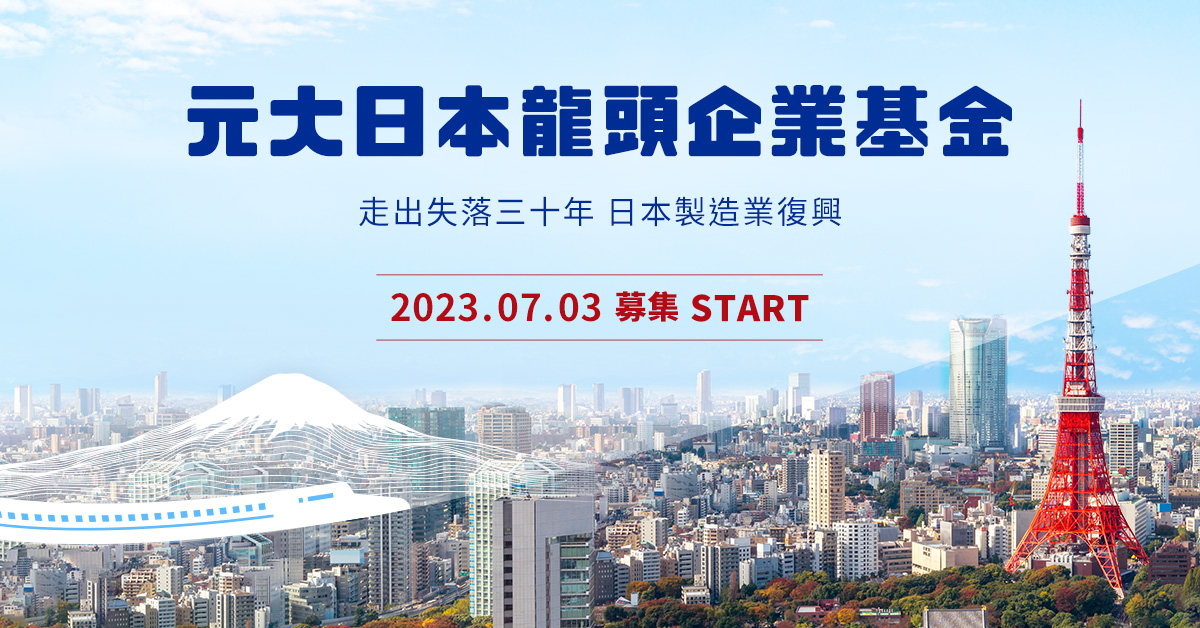
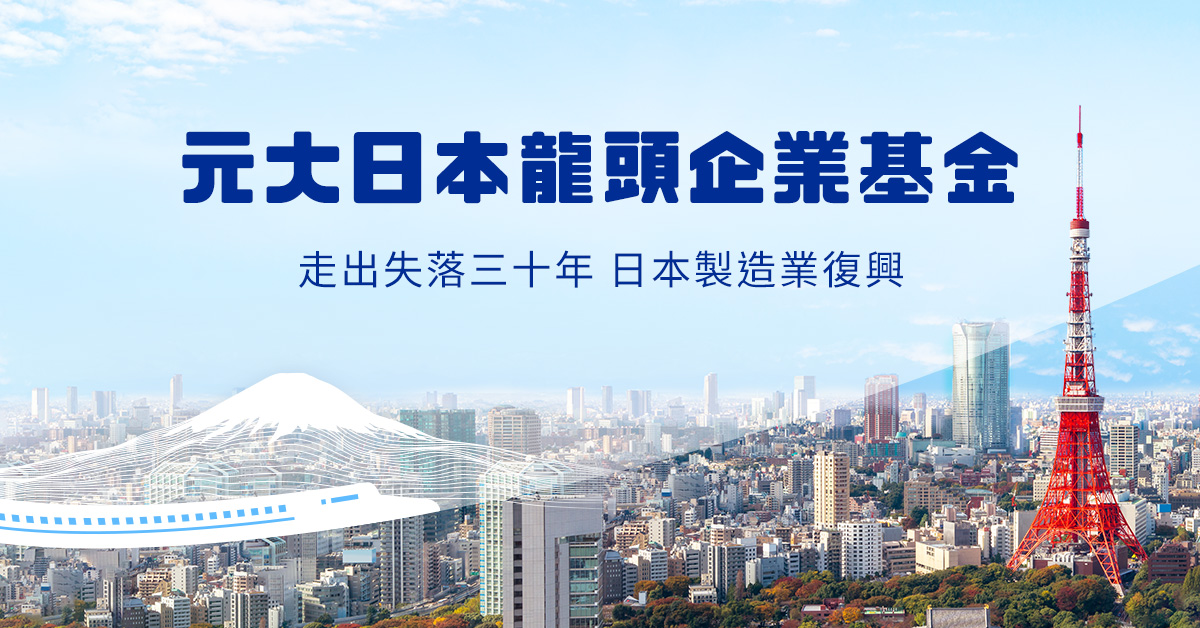
2

diff --git a/japanfund/index.html b/japanfund/index.html
@@ -1,3 +1,4 @@
+
 <!DOCTYPE html>
 <html lang="en">
 <head>
@@ -38,6 +39,19 @@
     [v-cloak] {
         display: none;
     }
+    /*popup*/
+        .popupAD{position: fixed;top: 0;left: 0;width: 100%;height: 100%;background-color:rgba(0, 0, 0, .3);display: flex;justify-content: center;align-items: center;z-index: 99999;-webkit-backdrop-filter: blur(20px);backdrop-filter: blur(20px);}
+        .popupAD .popup_text{width: 80%;max-width: 600px;background-color: #ffffff;box-shadow: 5px 5px 20px 0 rgb(0, 0, 0, .1);position: relative;}
+        .popupAD .popup_text .popup_bn{width: 100%; height: 0; padding-bottom: 37.5%; background: url("./asset/img/popup_bn.gif") center top no-repeat; background-size: 100% auto;}
+        .popupAD .popup_text p{font-size: 18px;line-height: 1.8; text-align: justify;color: #021835;padding: 6% 8%;margin-bottom: 0;}
+        .popupAD .popup_text span{color: #fe6b00;font-weight: bold;}
+        .popupAD .popup_text span.lblue{color: #4881e4;}
+        .popupAD .popup_btn{position: absolute;text-decoration: none;background: #666666 url("./asset/img/close.svg") center no-repeat; background-size: 18px 18px;width: 40px;height: 40px;border-radius: 40px;top: -20px;right: -20px;cursor: pointer;}
+        @media screen and (max-width: 767px) {
+        .popupAD .popup_text .popup_bn{width: 100%; height: 0; padding-bottom: 75%; background: url("./asset/img/popup_bn-m.gif") center top no-repeat; background-size: 100% auto;}
+        .popupAD .popup_text p{font-size: 16px;padding: 8% 10%;}
+        .popupAD .popup_text p br{display: none;}
+        }
   </style>
   <script src="asset/js/jquery-3.6.0.min.js"></script>
   <script src="asset/js/vue.min.js"></script>
@@ -47,7 +61,15 @@
     <!-- Google Tag Manager (noscript) -->
     <noscript><iframe src="https://www.googletagmanager.com/ns.html?id=GTM-TDNQKZC" height="0" width="0" style="display:none;visibility:hidden"></iframe></noscript>
     <!-- End Google Tag Manager (noscript) -->
-
+    <!-- popup-->
+    <div class="popupAD">
+        <div class="popup_text">
+            <div class="popup_bn"></div>
+            <p>線上申購<b>「元大日本龍頭企業基金」</b>定期（不）定額，每月最低申購金額只要<span>NT$100元</span>、還可<span class="lblue">日日扣款</span>。</p>
+            <a class="popup_btn"></a>
+        </div>
+    </div>
+    <!-- popup end-->
     <div id="app" v-cloak>
           <header>
               <a href="https://www.yuantabank.com.tw/bank/" target="_blank"><img src="./asset/img/yuanta_logo.svg" alt="元大銀行"></a>
@@ -91,12 +113,12 @@
             <div class="content center">
                 <div class="title"><img src="./asset/img/main.png"></div>
                 <p class="blue f40">走出失落三十年 日本製造業復興</p>
-                <p class="red f30">2023.06.19 預約 START</p>
+                <p class="red f30">線上申購基金定期(不)定額<br>享5折手續費優惠</p>
             </div>
             <!-- 右側按鈕 -->
             <div class="mainBtn" class="wow fadeIn" data-wow-delay="0.9s">
                 <div id="btn-sidebtn-trade" class="f20 link"><i></i>
-                    <a id="btn-side-account" class="blue" href="https://ebank.yuantabank.com.tw/ib/login_preorderipo.jsp" target="_blank">我要預約</a>
+                    <a id="btn-side-account" class="blue" href="https://ebank.yuantabank.com.tw/nib/ibanc_b.jsp?ZnVuZGJ1eSZZVDg4JnNpbmdsZQ==" target="_blank">我要申購</a>
                 </div>
                 <div id="btn-sidebtn-trade" class="f20 link"><i></i>
                     <a id="btn-side-account" class="blue" href="https://www.yuantabank.com.tw/bank/wealthManagement/wmPreOrderActivity/list.do?activity_id=YT88" target="_blank">我有興趣</a>
@@ -317,6 +339,9 @@
                                             <a :href="fundInfoList.DOC_URL_B" target="_blank" id="btn-info-prospectus-simp">
                                                 <img src="./asset/img/icon-download.svg">簡式公開說明書
                                             </a>
+                                            <!--<a :href="fundInfoList.DOC_URL_D" target="_blank" id="btn-info-apply">
+                                                <img src="./asset/img/icon-download.svg">基金申購書
+                                            </a>-->
                                         </span>
                                     </p>
                                 </div>
@@ -630,10 +655,10 @@
                     <li>基金並非存款，基金投資具有投資風險，可能使本金發生虧損。</li>
                     <li>投資人因不同時間進場，將有不同之投資績效，過去之績效亦不代表未來績效之保證。</li>
                     <li>如基金投資以外幣計價之有價證券，其淨值可能因匯率而變動。</li>
-                    <li>現階段法令規定境外基金投資大陸地區證券市場之有價證券以掛牌上市有價證券及銀行間債券市場為限，且投資總金額不得超過該基金淨資產價值20%(境外基金機構依鼓勵境外基金深耕計畫向金管會申請並經認可，得放寬投資總金額上限至40%)，故並非完全投資於大陸地區之有價證券；投信基金投資大陸地區之有價證券雖可包括其證券集中交易市場交易之股票、存託憑證或符合一定信用評等之債券等且法令並無規範投資總金額之上限，惟仍應符合信託契約、公開說明書、證券投資信託基金管理辦法等相關規定及受到基金公司QFII額度之限制，故亦非一定完全投資於大陸地區有價證券。又投資人亦須留意中國市場政府政策、法令、會計稅務制度、經濟與市場等變動所可能產生之投資風險。</li>
+                    <!--<li>現階段法令規定境外基金投資大陸地區證券市場之有價證券以掛牌上市有價證券及銀行間債券市場為限，且投資總金額不得超過該基金淨資產價值20%(境外基金機構依鼓勵境外基金深耕計畫向金管會申請並經認可，得放寬投資總金額上限至40%)，故並非完全投資於大陸地區之有價證券；投信基金投資大陸地區之有價證券雖可包括其證券集中交易市場交易之股票、存託憑證或符合一定信用評等之債券等且法令並無規範投資總金額之上限，惟仍應符合信託契約、公開說明書、證券投資信託基金管理辦法等相關規定及受到基金公司QFII額度之限制，故亦非一定完全投資於大陸地區有價證券。又投資人亦須留意中國市場政府政策、法令、會計稅務制度、經濟與市場等變動所可能產生之投資風險。</li>
                     <li>中國境內債券之信用評級，由中國評級機構所授予，其所使用評級標準與方法可能與其他國際評級機構所採用者不一致，故該評級制度未必可提供同等的標準與獲得國際評級的證券進行比較。</li>
                     <li>由於新興市場基金主要投資風險，除包含一般股票型基金之投資組合跌價與匯率風險外，與成熟市場相比，須承受較高之政治與金融管理風險，且因市值及制度性因素，流動性風險也相對較高，故新興市場投資組合波動性普遍高於成熟市場。</li>
-                    <li>投資新興市場可能比投資已開發國家有較大的價格波動及流動性較低的風險。部分基金可能持有衍生性商品部位，可能達基金淨資產價值之100%，可能造成基金淨值高度波動及衍生其他風險，委託人應慎選投資標的。</li>
+                    <li>投資新興市場可能比投資已開發國家有較大的價格波動及流動性較低的風險。部分基金可能持有衍生性商品部位，可能達基金淨資產價值之100%，可能造成基金淨值高度波動及衍生其他風險，委託人應慎選投資標的。</li>-->
                     <li><u class="underline">本專案之基金經金管會核准或同意生效，惟不表示絕無風險。基金經理公司以往之經理績效不保證基金之最低投資收益；基金經理公司除盡善良管理人之注意義務外，不負責基金之盈虧，亦不保證最低之收益，投資人申購前應詳閱基金簡式公開說明書及基金公開說明書。</u></li>
                     <li>委託人之交易如經基金公司認定為短線交易者，基金公司或本行可拒絕受理申請轉換或申購要求，並可請求支付一定比例之贖回費用或其他相關費用，費用標準均依各該基金公司之規定。</li>
                     <li class="non-justify">有關投資基金應承擔之相關風險(如國家風險、市場風險、貨幣風險、匯率風險、信用風險、債券風險等)及負擔之費用(含分銷費用)，已揭露於基金之公開說明書或投資人須知中，投資人欲索閱基金公開說明書(或其中譯本)或投資人須知，可至分行洽詢理財專員或洽該基金公司，或至公開資訊觀測站或境外基金資訊觀測站(<a href="http://www.fundclear.com.tw" target="_blank">http://www.fundclear.com.tw</a>)查詢。</li>
@@ -911,5 +936,12 @@
         gtag('js', new Date());
         gtag('config', 'G-08TZJFEECX'); 
     </script>
+    <!-- popup JQuery-->
+    <script>
+        $('.popup_btn').click(function(){
+            $('.popupAD').hide();
+        })
+    </script>
+    <!-- popup JQuery end-->
 </body>
 </html>

diff --git a/japanfund/asset/css/main.css b/japanfund/asset/css/main.css
@@ -490,9 +490,10 @@ article.main .content p.blue {
   }
 }
 article.main .content p.red {
-  margin-top: 57px;
+  margin-top: 50px;
   width: 30vw;
-  font-size: 2.2vw;
+  font-size: 1.8vw;
+  line-height: 1.6;
   text-align: center;
 }
 article.main .content p.red::before {
@@ -515,9 +516,9 @@ article.main .content p.red::after {
 }
 @media screen and (max-width: 1024px) {
   article.main .content p.red {
-    margin-top: 6vw;
+    margin-top: 5vw;
     width: 60vw;
-    font-size: 4.2vw;
+    font-size: 3.8vw;
   }
   article.main .content p.red::before {
     top: -2vw;
@@ -530,7 +531,7 @@ article.main .content p.red::after {
   article.main .content p.red {
     margin-top: 8vw;
     width: 70vw;
-    font-size: 6vw;
+    font-size: 5.4vw;
   }
   article.main .content p.red::before {
     top: -3vw;
